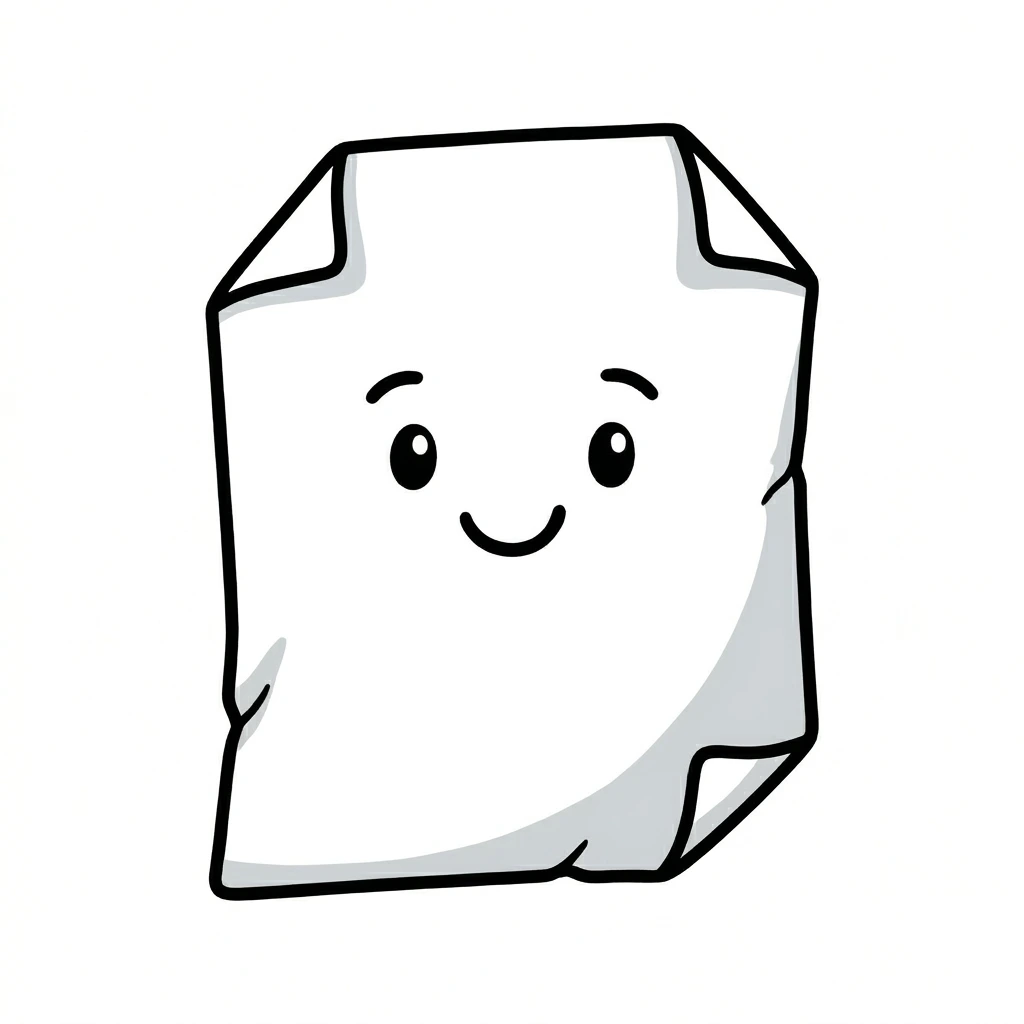
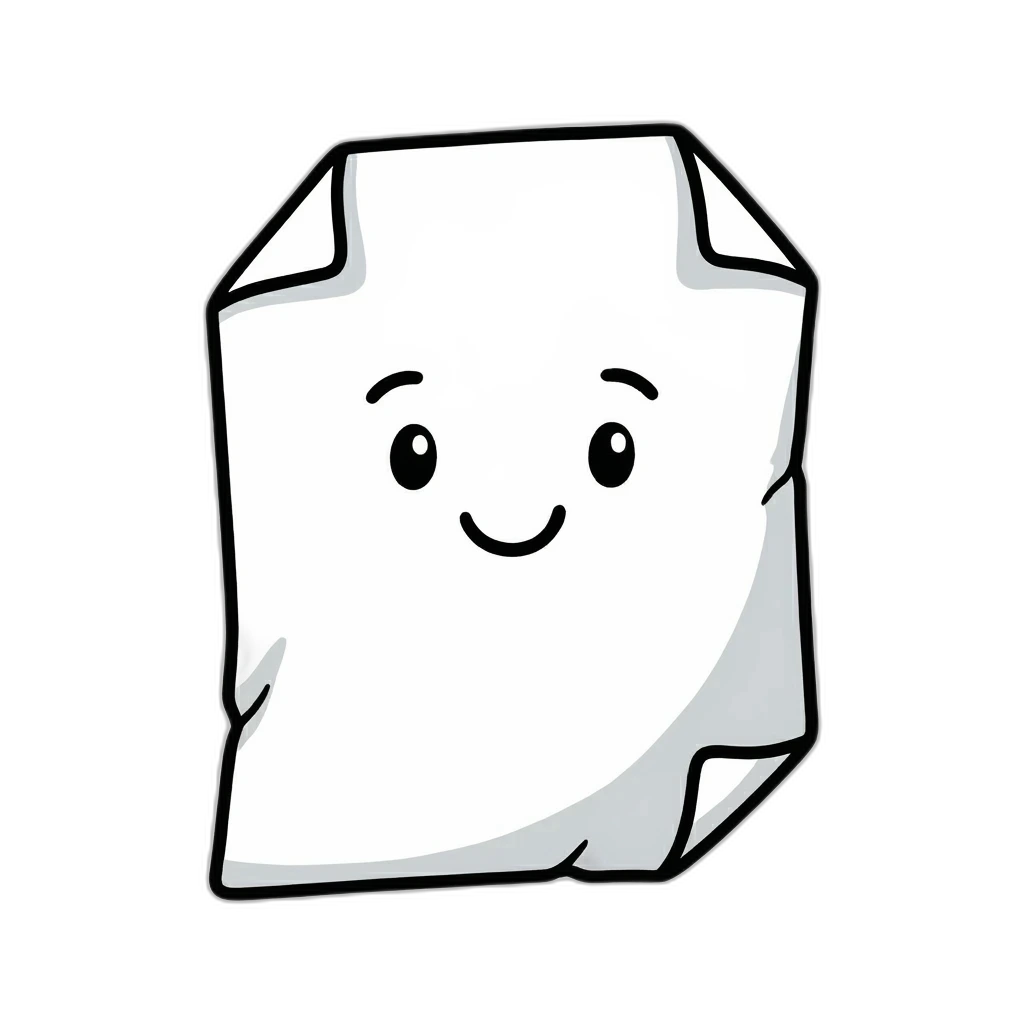
Changed the display from console to GUI

diff --git a/script.js b/script.js
@@ -12,22 +12,12 @@ const getComputerChoice = () => {
     };
 };
 
-const getHumanChoice = () => {
-    let humanChoice = prompt("ROCK PAPER Scissors").toLowerCase();
-    if (humanChoice == "ROCK" || humanChoice == "PAPER" || humanChoice == "SCISSORS") {
-        return humanChoice;
-    } else {
-        alert("Only input (ROCK PAPER Scissors)");
-    }
-};
-
 const playGame = () => {
     let humanScore = 0; 
     let computerScore = 0;
     
         const playRound = (humanChoice, computerChoice) => {
             let outcome;
-
             if (humanChoice == computerChoice){
                 outcome = "draw"
             }  else if (humanChoice == "PAPER"    && computerChoice == "ROCK" || 
@@ -39,31 +29,36 @@ const playGame = () => {
                        computerChoice == "SCISSORS" && humanChoice == "PAPER"){
                             outcome = "lose";
             };
+            playResults(outcome, humanChoice, computerChoice);
+        };
 
+        const playResults = (outcome, humanChoice, computerChoice) => {
+            let outcomeAnnounce = document.querySelector("#outcomeAnnounce");
+            let scores = document.querySelector("#scores");
+            let humanChoiceDisplay = document.querySelector("#humanChoice");
+            let computerChoiceDisplay = document.querySelector("#computerChoice");
             switch(outcome){
                 case "win":
-                    console.log(`${humanChoice.toUpperCase()} and ${computerChoice.toUpperCase()}`);
-                    console.log("You WIN this round!");
+                    humanChoiceDisplay.textContent = `👨 Choice: ${humanChoice}`;
+                    computerChoiceDisplay.textContent = `🖥 Choice: ${computerChoice}`;
+                    outcomeAnnounce.textContent = "You WIN this round!";
                     humanScore++;
-                    console.log(`Your score: ${humanScore} | Computer Score: ${computerScore}`);
+                    scores.textContent= `👨 Score: ${humanScore} | 🖥 Score: ${computerScore}`;
                     break;
                 case "lose":
-                    console.log(`${humanChoice.toUpperCase()} and ${computerChoice.toUpperCase()}`);
-                    console.log("You LOSE this round :(");
+                    humanChoiceDisplay.textContent = `👨 Choice: ${humanChoice}`;
+                    computerChoiceDisplay.textContent = `🖥 Choice: ${computerChoice}`;                  outcomeAnnounce.textContent = "You LOSE this round :(";
                     computerScore++;
-                    console.log(`Your score: ${humanScore} | Computer Score: ${computerScore}`);
+                    scores.textContent = `👨 Score: ${humanScore} | 🖥 Score: ${computerScore}`;
                     break;
                 case "draw":
-                    console.log(`${humanChoice.toUpperCase()} and ${computerChoice.toUpperCase()}`);
-                    console.log("It's a draw");
-                    console.log(`Your score: ${humanScore} | Computer Score: ${computerScore}`);
-                    break;
-                default:
-                    console.log("Error");
+                    humanChoiceDisplay.textContent = `👨 Choice: ${humanChoice}`;
+                    computerChoiceDisplay.textContent = `🖥 Choice: ${computerChoice}`; 
+                    outcomeAnnounce.textContent = "It's a DRAW";
                     break;
             };
         };
-        
+
     // Uncomment when want the condition to be: 
     // While score is not yet 5 keep playing 
     // while (humanScore < 5 && computerScore < 5){
@@ -92,5 +87,4 @@ const playGame = () => {
 };
 
 
-
-playGame()
+playGame();

diff --git a/style.css b/style.css
@@ -1,20 +1,68 @@
-.buttonContainer{
-    
-    display: flex;
-    flex-direction: row;
-    justify-content: space-evenly;
+* {
+    font-family: 'Lucida Sans', 'Lucida Sans Regular', 'Lucida Grande', 'Lucida Sans Unicode', Geneva, Verdana, sans-serif;
 }
 
-button{
-    font-family: 'Lucida Sans', 'Lucida Sans Regular', 'Lucida Grande', 'Lucida Sans Unicode', Geneva, Verdana, sans-serif;
+.buttonContainer {
+    display: flex;
+    flex-direction: row;
+    flex-wrap: wrap;
+    justify-content: space-evenly;
+    align-items: center;
+    margin-top: 10dvh;
+}
+
+button {
+    display: flex;
+    flex-direction: column;
+    flex: 0;
+    font-size: 1.2rem;
     font-weight: bold;
     border: none;
-    border-radius: 13px;
+    border-radius: 20px;
     padding: 5px 10px;
 }
 
-button:hover{
+button:hover {
     cursor: pointer;
     color: white;
     background-color: gray;
+}
+
+.header {
+    font-size: 3rem;
+    text-align: center;
+    margin: 1rem 0;
+}
+
+.choicePictures {
+    pointer-events: none;
+    border-radius: 10px;
+    width: auto;
+    height: 20rem;
+}
+
+.resultContainer {
+    margin: 0 0 0.5rem 0;
+    display: flex;
+    border-radius: 10px;
+    gap: 1rem;
+}
+
+.results {
+    background-color: rgb(237, 233, 233);
+    border-radius: 20px;
+    margin: 0;
+    padding: .5rem;
+}
+
+.results.description {
+    flex-grow: 2;
+}
+
+.results.choices {
+    flex-grow: 1;
+}
+
+h1 {
+    margin: 0;
 }

diff --git a/index.html b/index.html
@@ -8,11 +8,21 @@
     <title>RockPaperScissors</title>
 </head>
 <body>
-    
+    <h1 class="header"> Rock Paper Scissors </h1>
+    <div class="resultContainer">
+        <div class="results description">
+            <h1 id="outcomeAnnounce"> Press any button to start </h1>
+            <h1 id="scores"> 👨 Score: 0 | 🖥 Score: 0 </h1>
+        </div>
+        <div class="results choices">
+            <h1 id="humanChoice" >👨 Choice: </h1>
+            <h1 id="computerChoice" >🖥 Choice: </h1>
+        </div>
+    </div>
     <div class="buttonContainer">
-        <button id="rockButton">Rock</button>
-        <button id="paperButton" >Paper</button>
-        <button id="scissorsButton">Scissors</button>
+        <button id="rockButton"><img src="images/rock.webp" class="choicePictures">ROCK</button>
+        <button id="paperButton"><img src="images/paper.webp" class="choicePictures">PAPER</button>
+        <button id="scissorsButton"><img src="images/scissors.webp" class="choicePictures">SCISSORS</button>
     </div>
 </body>
 </html>
